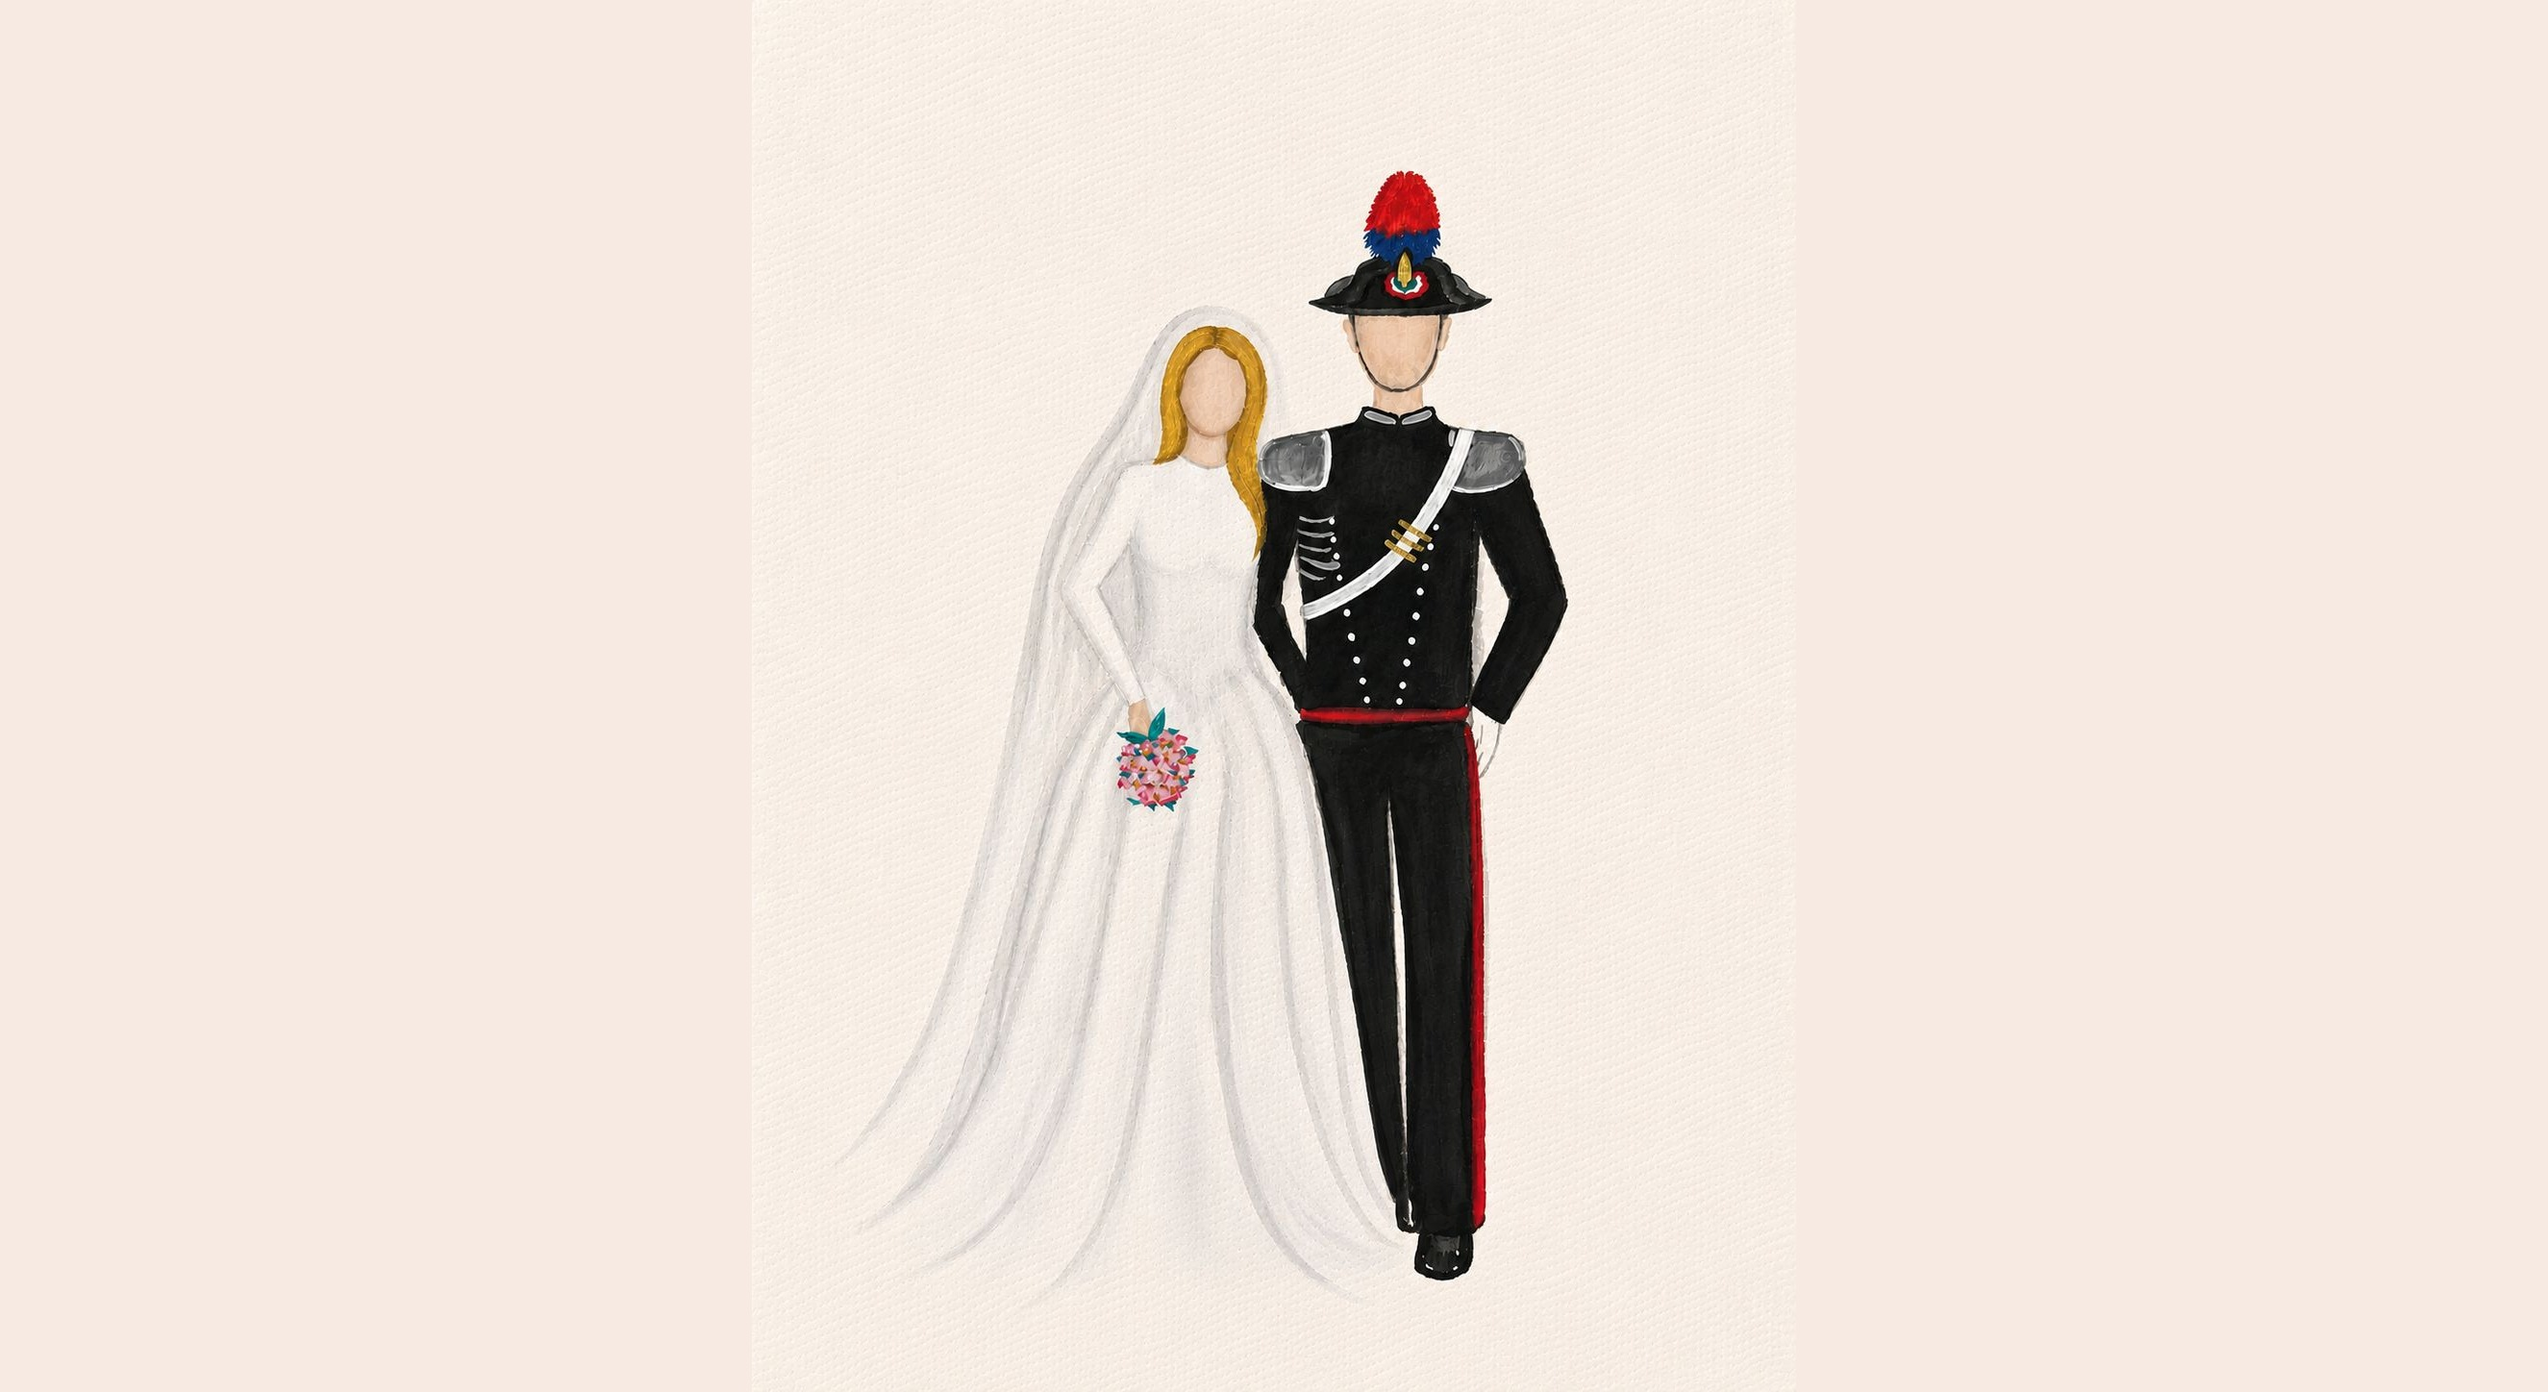
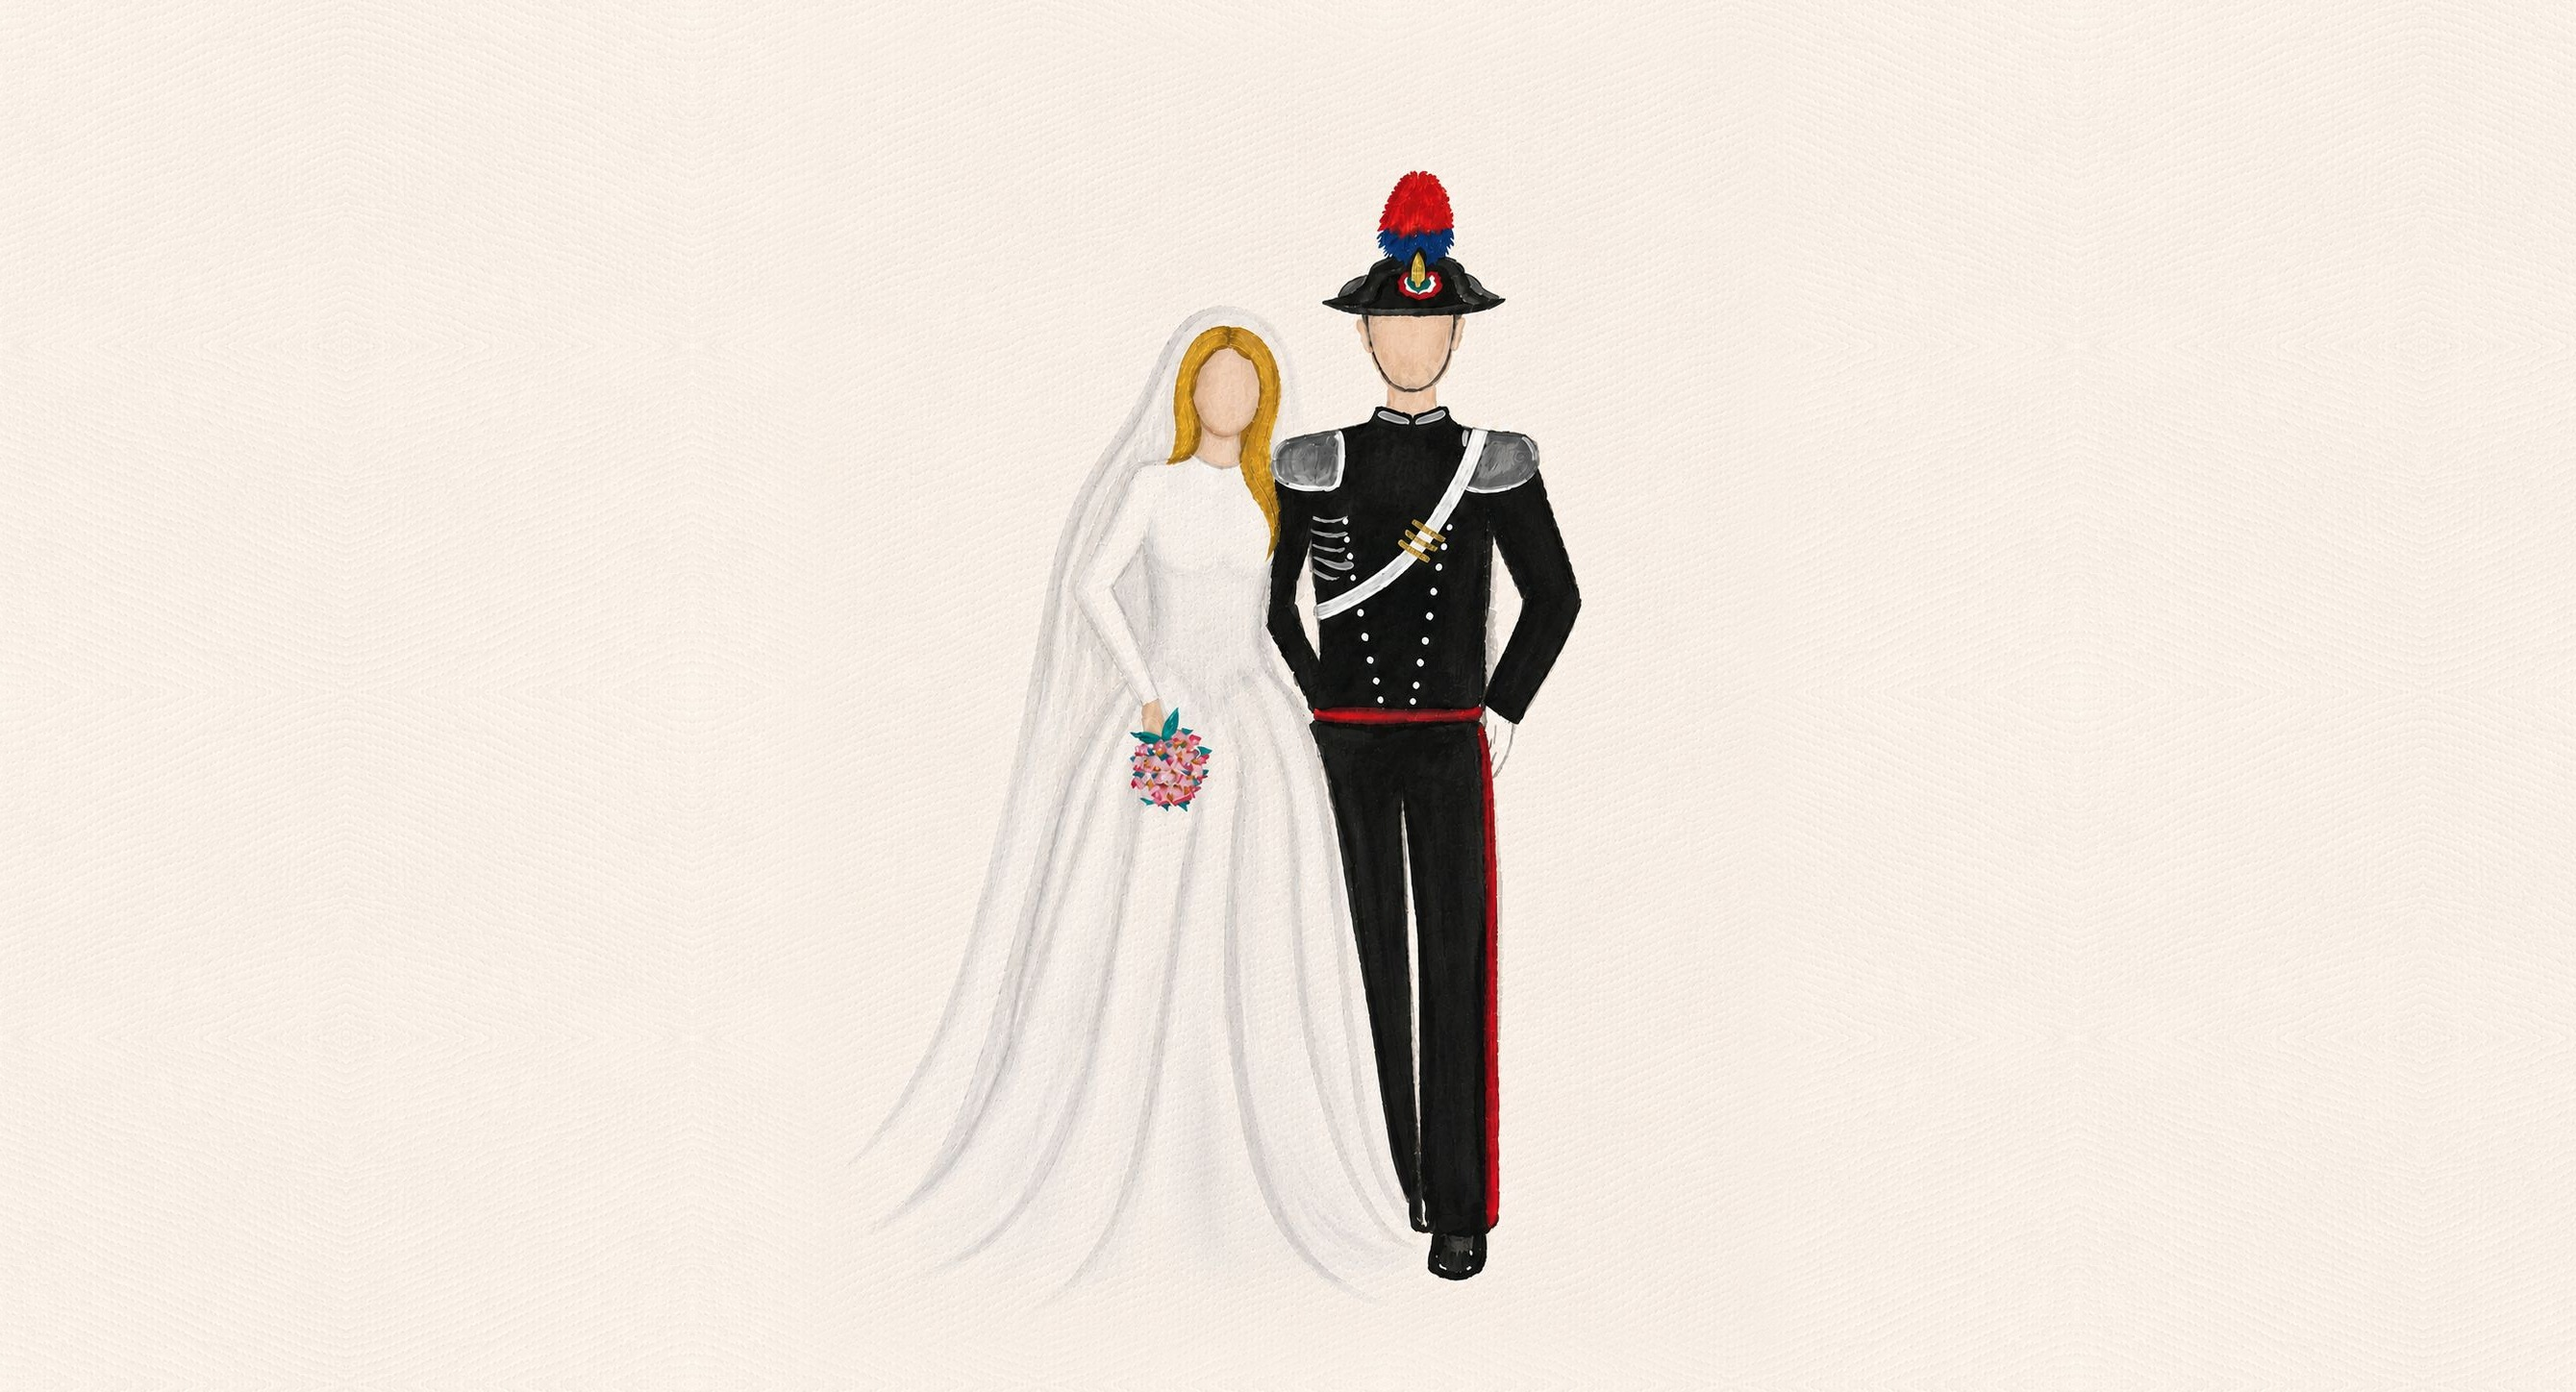
Apply countdown and photo updates

Changed region(s): [[0.4951, 0.2486, 0.6189, 0.9012], [0.526, 0.1554, 0.5879, 0.2486], [0.4332, 0.5283, 0.4642, 0.5905]]

diff --git a/src/pages/PhotosPage.jsx b/src/pages/PhotosPage.jsx
@@ -8,6 +8,43 @@ import "./PhotosPage.css";
 
 const PHOTO_QUALITY = 0.9;
 const DEFAULT_PHOTO_ENDPOINT = "/api/photos";
+const ITALIAN_COUNTDOWN_LABELS = {
+  label: "Apre tra",
+  daySingular: "giorno",
+  dayPlural: "giorni",
+  hourSingular: "ora",
+  hourPlural: "ore",
+  minuteSingular: "minuto",
+  minutePlural: "minuti",
+  secondSingular: "secondo",
+  secondPlural: "secondi",
+  ariaLabel: "Tempo all'apertura della pagina foto",
+};
+const POLISH_COUNTDOWN_LABELS = {
+  label: "Otwiera sie za",
+  daySingular: "dzien",
+  dayPlural: "dni",
+  hourSingular: "godz.",
+  hourPlural: "godz.",
+  minuteSingular: "min",
+  minutePlural: "min",
+  secondSingular: "sek",
+  secondPlural: "sek",
+  ariaLabel: "Czas do otwarcia strony zdjec",
+};
+
+const getCountdownEvent = (availableFrom, language) => {
+  if (!availableFrom) {
+    return null;
+  }
+
+  return {
+    calendar: {
+      start: availableFrom,
+    },
+    countdown: language === "pl" ? POLISH_COUNTDOWN_LABELS : ITALIAN_COUNTDOWN_LABELS,
+  };
+};
 
 const readBlobAsBase64 = blob => new Promise((resolve, reject) => {
   const reader = new FileReader();
@@ -143,6 +180,7 @@ export default function PhotosPage({ config }) {
   const [searchParams, setSearchParams] = useSearchParams();
   const language = getPhotoLanguage(searchParams);
   const labels = getPhotoLabels(config, language);
+  const countdownEvent = getCountdownEvent(config.availableFrom, language);
   const frameTitle = config.frameTitle || labels.frameTitle;
   const frameDate = config.frameDate || labels.frameDate;
   const photoAccess = usePhotoAccess(config.availableFrom);
@@ -304,13 +342,13 @@ export default function PhotosPage({ config }) {
   if (photoAccess.isLocked) {
     return (
       <PhotoAccessGate
-        availableAt={photoAccess.availableAt}
         cardClassName="photos-card invitation-card"
         labels={labels}
         language={language}
         languageSwitchClassName="photos-language-switch"
         onSwitchLanguage={switchLanguage}
         pageClassName="photos-page"
+        countdownEvent={countdownEvent}
       />
     );
   }

diff --git a/src/pages/PhotoAccessGate.jsx b/src/pages/PhotoAccessGate.jsx
@@ -1,27 +1,16 @@
 import { CalendarClock } from "lucide-react";
+import WeddingCountdown from "../components/WeddingCountdown";
 import { PHOTO_LANGUAGES } from "./photoTranslations";
 import "./PhotoAccessGate.css";
 
-const formatAvailableAt = (availableAt, language) => {
-  if (!availableAt) return "";
-
-  return new Intl.DateTimeFormat(language === "pl" ? "pl-PL" : "it-IT", {
-    day: "2-digit",
-    month: "long",
-    year: "numeric",
-    hour: "2-digit",
-    minute: "2-digit",
-  }).format(availableAt);
-};
-
 export default function PhotoAccessGate({
-  availableAt,
   cardClassName,
   labels,
   language,
   languageSwitchClassName,
   onSwitchLanguage,
   pageClassName,
+  countdownEvent,
 }) {
   return (
     <main className={pageClassName}>
@@ -47,11 +36,10 @@ export default function PhotoAccessGate({
         <h1 className="photo-access-title">{labels.lockedTitle}</h1>
         <p className="photo-access-message">{labels.lockedMessage}</p>
 
-        {availableAt && (
-          <p className="photo-access-date">
-            <span>{labels.lockedDateLabel}</span>
-            <strong>{formatAvailableAt(availableAt, language)}</strong>
-          </p>
+        {countdownEvent && (
+          <div className="photo-access-countdown">
+            <WeddingCountdown event={countdownEvent} />
+          </div>
         )}
       </section>
     </main>

diff --git a/src/pages/PhotoAccessGate.css b/src/pages/PhotoAccessGate.css
@@ -37,30 +37,26 @@
   line-height: 1.45;
 }
 
-.photo-access-date {
-  width: min(100%, 24rem);
-  display: grid;
-  gap: 0.35rem;
-  margin: 1.3rem auto 0;
-  padding: 1rem 1.1rem;
-  border: 1px solid rgba(199, 154, 59, 0.34);
-  border-radius: 0.95rem;
-  background: rgba(255, 255, 255, 0.7);
-  color: #4b0d14;
-  font-family: var(--font-body);
-  box-shadow: 0 0.8rem 1.7rem rgba(75, 13, 20, 0.08);
+.photo-access-countdown {
+  margin: 1.2rem auto 0;
 }
 
-.photo-access-date span {
-  color: rgba(75, 13, 20, 0.72);
-  font-size: 0.95rem;
-  font-weight: 700;
+.photo-access-countdown .wedding-countdown {
+  width: min(100%, 22rem);
+  padding: 0.72rem;
+  background: rgba(255, 255, 255, 0.62);
 }
 
-.photo-access-date strong {
-  color: var(--color-primary);
-  font-size: 1.18rem;
-  line-height: 1.25;
+.photo-access-countdown .wedding-countdown-grid {
+  gap: 0.36rem;
+}
+
+.photo-access-countdown .wedding-countdown-part {
+  padding: 0.46rem 0.24rem;
+}
+
+.photo-access-countdown .wedding-countdown-part strong {
+  font-size: clamp(1.05rem, 4.8vw, 1.65rem);
 }
 
 @media (max-width: 520px) {

diff --git a/src/data/event.js b/src/data/event.js
@@ -36,6 +36,7 @@ export const event = {
     },
     countdown: {
       label: "Mancano",
+      target: "2026-12-20T00:00:00+01:00",
       daySingular: "giorno",
       dayPlural: "giorni",
       hourSingular: "ora",
@@ -128,7 +129,7 @@ export const event = {
     message: "Autorizzate la fotocamera, scattate una foto e inviatela agli sposi.",
     inviteText: "Condividete con noi le foto della giornata",
     inviteLinkLabel: "Condividi una foto!",
-    availableFrom: "2026-12-20T17:00:00+01:00",
+    availableFrom: "2026-12-20T00:00:00+01:00",
     lockedTitle: "Ci siamo quasi",
     lockedMessage: "La pagina per condividere le foto sara disponibile il giorno del matrimonio.",
     lockedDateLabel: "Apre il",

diff --git a/src/components/WeddingCountdown.jsx b/src/components/WeddingCountdown.jsx
@@ -59,7 +59,8 @@ const getSegments = (remaining, labels) => [
 export default function WeddingCountdown({ event }) {
   const [now, setNow] = useState(() => Date.now());
   const labels = event.countdown || {};
-  const remaining = getRemainingTime(event.calendar?.start, now);
+  const target = event.countdown?.target || event.calendar?.start;
+  const remaining = getRemainingTime(target, now);
 
   useEffect(() => {
     const timer = window.setInterval(() => setNow(Date.now()), 1000);
